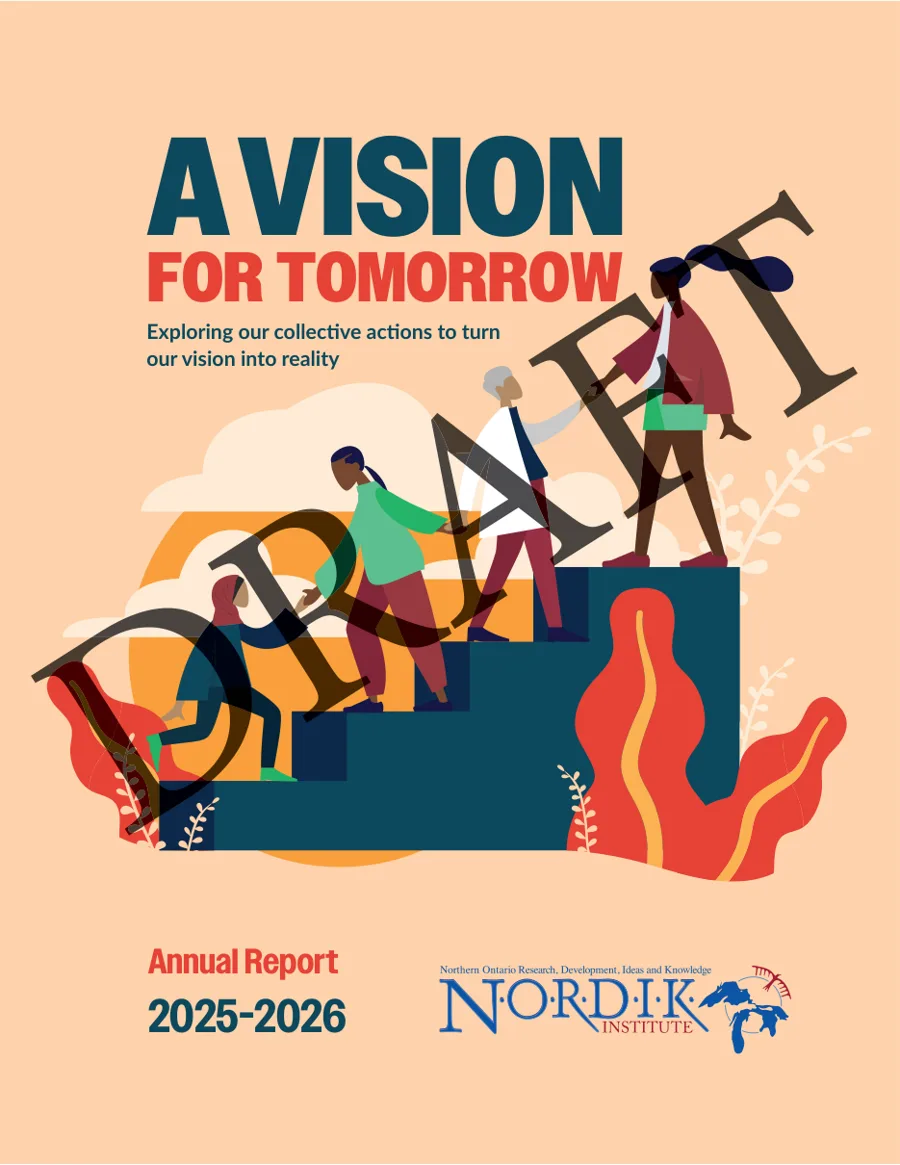
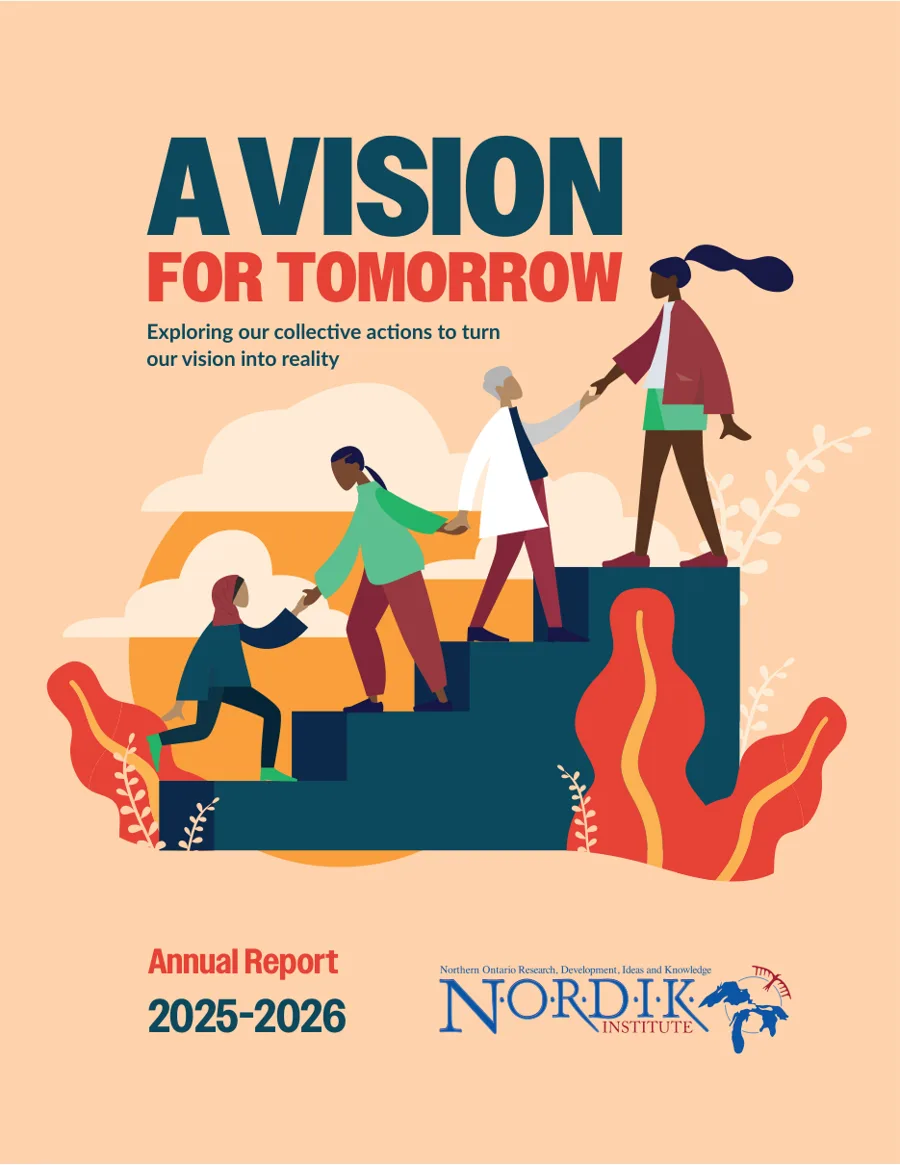
AGM: annual report cover image without the DRAFT watermark
The PDF itself is unchanged; only the website's cover image is rendered
from page 1 with the watermark paths left out.

Changed region(s): [[0.2178, 0.2781, 0.7778, 0.618], [0.6533, 0.1545, 0.9644, 0.3708], [0.0311, 0.5253, 0.28, 0.7107]]

diff --git a/AGM/index.html b/AGM/index.html
@@ -144,7 +144,7 @@
     <section class="report on-dark" id="report" aria-labelledby="report-title">
       <div class="wrap report__inner" data-anim>
         <a class="report__cover" href="assets/reports/annual-report-2025-2026.pdf" target="_blank" rel="noopener" aria-label="Open the Annual Report 2025–2026 (PDF)">
-          <img src="assets/reports/annual-report-2025-2026-cover.webp" alt="" width="900" height="1165" loading="lazy" decoding="async">
+          <img src="assets/reports/annual-report-2025-2026-cover.webp?v=2" alt="" width="900" height="1165" loading="lazy" decoding="async">
         </a>
         <div class="report__text">
           <p class="eyebrow">2025–2026</p>
